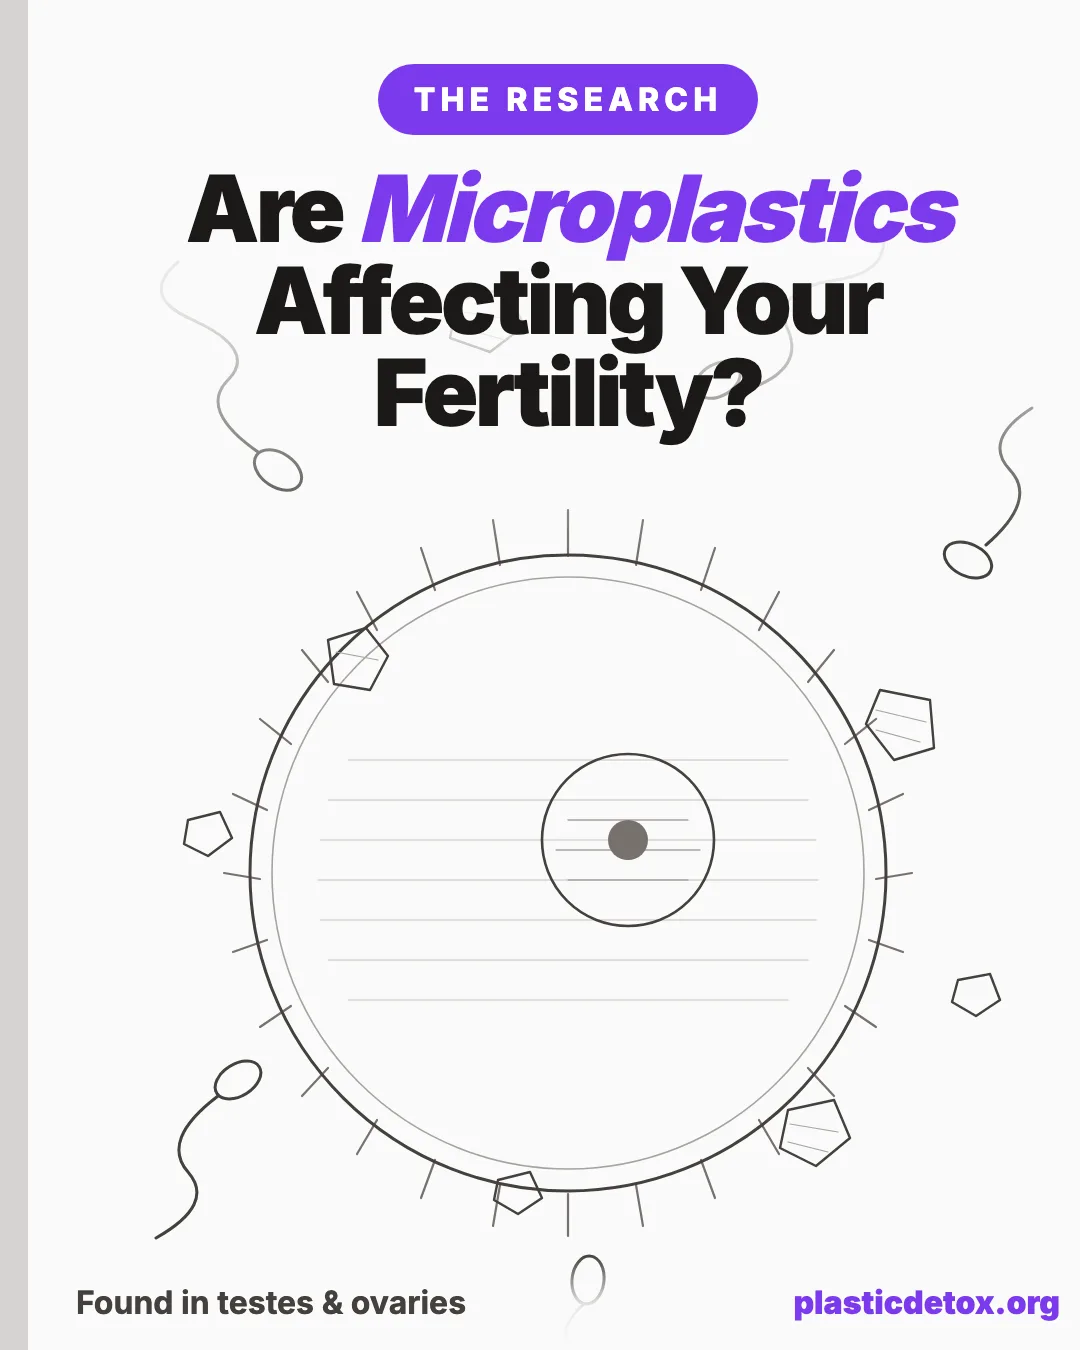
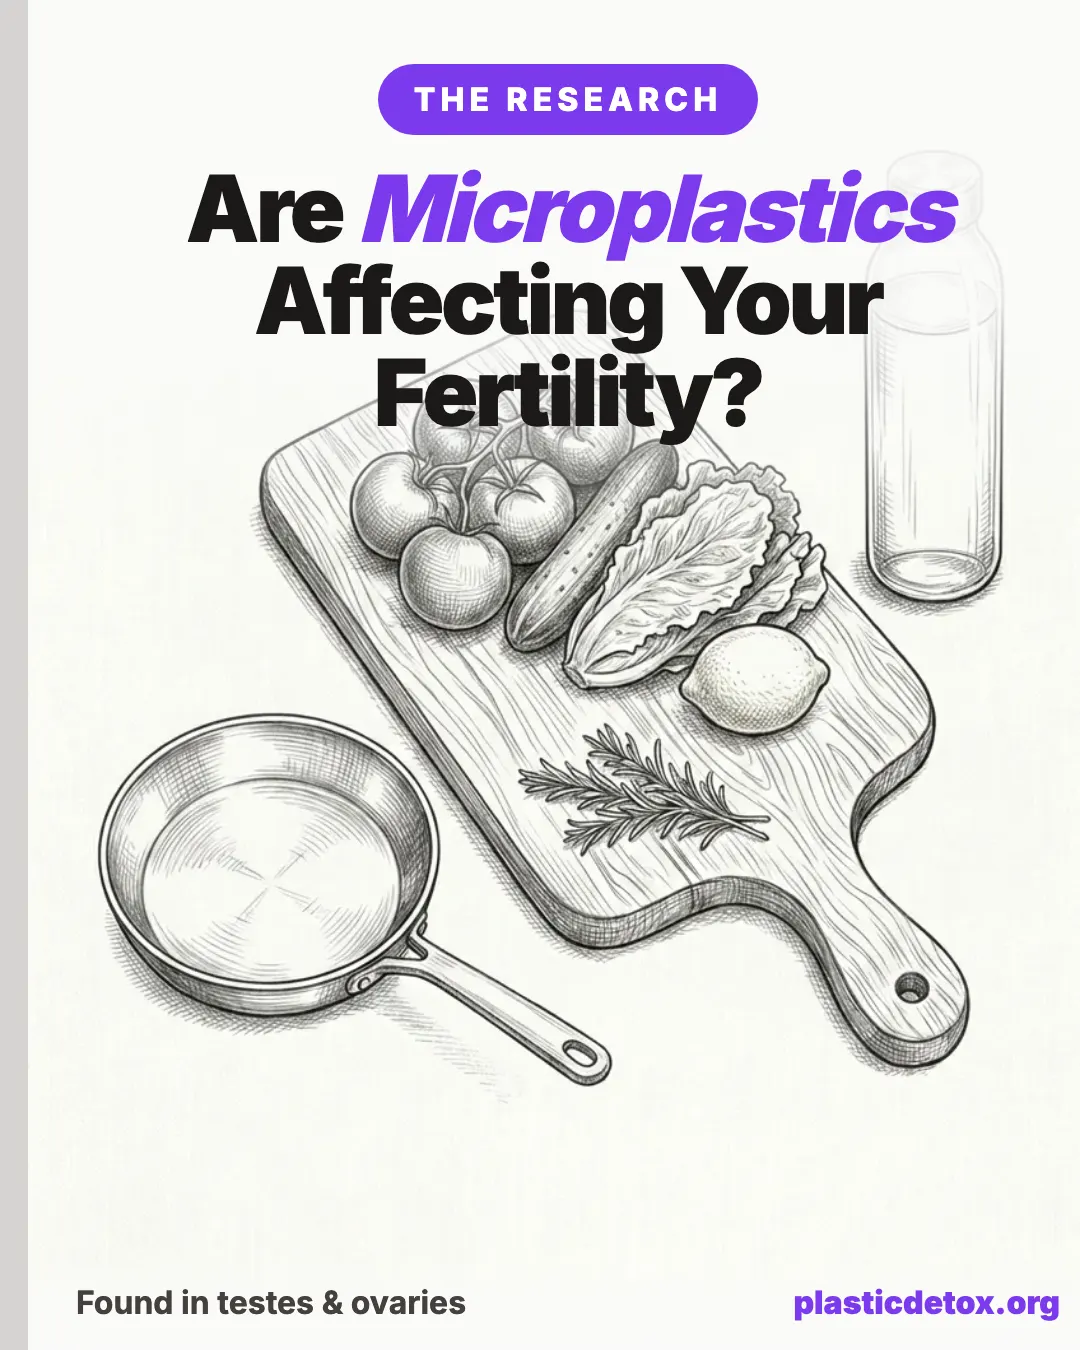
Swap fertility hero and social to the brand pencil illustration
Replace the placeholder SVG hero with the supplied black and white pencil
kitchen illustration in the canonical article-hero pin template. Background
source kept as webp (109KB) and referenced by both templates. Live assets are
SEO sized: hero 105KB, social 67KB. Dropped the large rendered PNG backups in
favor of webp only.

diff --git a/images/microplastics-and-fertility-article-hero.html b/images/microplastics-and-fertility-article-hero.html
@@ -20,11 +20,10 @@
       overflow: hidden;
       background: #fafaf9;
     }
-    .pin > svg.bg {
-      position: absolute;
-      inset: 0;
+    .pin > img {
       width: 100%;
       height: 100%;
+      object-fit: cover;
       display: block;
     }
     .top-overlay {
@@ -77,111 +76,7 @@
 </head>
 <body>
   <div class="pin">
-    <svg class="bg" viewBox="0 0 1080 1350" xmlns="http://www.w3.org/2000/svg">
-      <rect width="1080" height="1350" fill="#fafaf9"/>
-      <g stroke="#57534e" fill="none" stroke-linecap="round" stroke-linejoin="round">
-
-        <!-- ============ THE EGG (ovum) ============ -->
-        <!-- corona radiata: radial strokes -->
-        <g stroke="#78716c" stroke-width="2.2">
-          <!-- generated ring of radial ticks around center 540,800 -->
-          <line x1="540" y1="510" x2="540" y2="556"/>
-          <line x1="615" y1="520" x2="608" y2="565"/>
-          <line x1="687" y1="548" x2="673" y2="590"/>
-          <line x1="751" y1="592" x2="731" y2="630"/>
-          <line x1="806" y1="650" x2="780" y2="682"/>
-          <line x1="848" y1="719" x2="817" y2="744"/>
-          <line x1="875" y1="794" x2="841" y2="810"/>
-          <line x1="884" y1="873" x2="848" y2="879"/>
-          <line x1="875" y1="952" x2="841" y2="940"/>
-          <line x1="848" y1="1027" x2="817" y2="1006"/>
-          <line x1="806" y1="1096" x2="780" y2="1068"/>
-          <line x1="751" y1="1154" x2="731" y2="1120"/>
-          <line x1="687" y1="1198" x2="673" y2="1160"/>
-          <line x1="615" y1="1226" x2="608" y2="1185"/>
-          <line x1="540" y1="1236" x2="540" y2="1194"/>
-          <line x1="465" y1="1226" x2="472" y2="1185"/>
-          <line x1="393" y1="1198" x2="407" y2="1160"/>
-          <line x1="329" y1="1154" x2="349" y2="1120"/>
-          <line x1="274" y1="1096" x2="300" y2="1068"/>
-          <line x1="232" y1="1027" x2="263" y2="1006"/>
-          <line x1="205" y1="952" x2="239" y2="940"/>
-          <line x1="196" y1="873" x2="232" y2="879"/>
-          <line x1="205" y1="794" x2="239" y2="810"/>
-          <line x1="232" y1="719" x2="263" y2="744"/>
-          <line x1="274" y1="650" x2="300" y2="682"/>
-          <line x1="329" y1="592" x2="349" y2="630"/>
-          <line x1="393" y1="548" x2="407" y2="590"/>
-          <line x1="465" y1="520" x2="472" y2="565"/>
-        </g>
-
-        <!-- zona pellucida (outer membrane) -->
-        <circle cx="540" cy="873" r="318" stroke="#44403c" stroke-width="3"/>
-        <circle cx="540" cy="873" r="296" stroke="#a8a29e" stroke-width="1.6"/>
-
-        <!-- cytoplasm hatching -->
-        <g stroke="#d6d3d1" stroke-width="1.4">
-          <line x1="320" y1="760" x2="760" y2="760"/>
-          <line x1="300" y1="800" x2="780" y2="800"/>
-          <line x1="292" y1="840" x2="788" y2="840"/>
-          <line x1="290" y1="880" x2="790" y2="880"/>
-          <line x1="292" y1="920" x2="788" y2="920"/>
-          <line x1="300" y1="960" x2="780" y2="960"/>
-          <line x1="320" y1="1000" x2="760" y2="1000"/>
-        </g>
-
-        <!-- nucleus -->
-        <circle cx="600" cy="840" r="86" stroke="#44403c" stroke-width="2.6"/>
-        <g stroke="#a8a29e" stroke-width="1.4">
-          <line x1="540" y1="820" x2="660" y2="820"/>
-          <line x1="528" y1="850" x2="672" y2="850"/>
-          <line x1="540" y1="880" x2="660" y2="880"/>
-        </g>
-        <circle cx="600" cy="840" r="20" fill="#78716c" stroke="none"/>
-
-        <!-- ============ SPERM ============ -->
-        <g stroke="#44403c" stroke-width="3">
-          <!-- sperm 1, upper left, swimming in -->
-          <ellipse cx="250" cy="470" rx="26" ry="17" transform="rotate(34 250 470)"/>
-          <path d="M 230 452 Q 170 410 200 380 Q 230 350 165 320 Q 110 296 150 262"/>
-          <!-- sperm 2, top center-right -->
-          <ellipse cx="690" cy="380" rx="24" ry="16" transform="rotate(150 690 380)"/>
-          <path d="M 712 392 Q 778 372 760 330 Q 742 290 808 280 Q 862 272 855 232"/>
-          <!-- sperm 3, right -->
-          <ellipse cx="940" cy="560" rx="25" ry="16" transform="rotate(205 940 560)"/>
-          <path d="M 958 545 Q 1010 500 982 470 Q 954 440 1004 408"/>
-          <!-- sperm 4, lower left -->
-          <ellipse cx="210" cy="1080" rx="25" ry="16" transform="rotate(-32 210 1080)"/>
-          <path d="M 190 1096 Q 132 1140 160 1172 Q 188 1204 128 1238"/>
-          <!-- sperm 5, bottom -->
-          <ellipse cx="560" cy="1280" rx="24" ry="16" transform="rotate(96 560 1280)"/>
-          <path d="M 556 1304 Q 520 1336 556 1356"/>
-        </g>
-
-        <!-- ============ PLASTIC FRAGMENTS ============ -->
-        <g stroke="#44403c" stroke-width="2.4">
-          <!-- fragment a -->
-          <polygon points="430,300 478,288 496,326 462,352 422,338"/>
-          <g stroke="#a8a29e" stroke-width="1.2"><line x1="436" y1="312" x2="486" y2="320"/><line x1="432" y1="328" x2="478" y2="340"/></g>
-          <!-- fragment b -->
-          <polygon points="852,690 902,700 906,748 866,760 838,724"/>
-          <g stroke="#a8a29e" stroke-width="1.2"><line x1="848" y1="710" x2="898" y2="722"/><line x1="848" y1="730" x2="892" y2="742"/></g>
-          <!-- fragment c -->
-          <polygon points="300,640 338,628 360,656 342,690 306,684"/>
-          <g stroke="#a8a29e" stroke-width="1.2"><line x1="308" y1="652" x2="350" y2="660"/></g>
-          <!-- fragment d -->
-          <polygon points="760,1110 806,1100 822,1138 788,1166 752,1148"/>
-          <g stroke="#a8a29e" stroke-width="1.2"><line x1="762" y1="1124" x2="810" y2="1132"/><line x1="760" y1="1142" x2="800" y2="1152"/></g>
-          <!-- fragment e small -->
-          <polygon points="160,820 192,812 204,838 180,856 156,844"/>
-          <!-- fragment f small -->
-          <polygon points="930,980 962,974 972,1000 948,1016 924,1002"/>
-          <!-- fragment g small -->
-          <polygon points="470,1180 502,1172 514,1198 490,1214 466,1200"/>
-        </g>
-
-      </g>
-    </svg>
+    <img src="microplastics-and-fertility-bg.webp" alt="Pencil sketch of a low tox kitchen with a wood cutting board of vegetables, a glass bottle, and a stainless steel pan">
     <div class="top-overlay">
       <div class="headline-tag">The Research</div>
       <h1>Are <span class="accent">Microplastics</span><br>Affecting Your<br>Fertility?</h1>

diff --git a/images/microplastics-and-fertility-social.html b/images/microplastics-and-fertility-social.html
@@ -22,20 +22,22 @@
       display: flex;
       align-items: center;
     }
-    .card > svg.bg {
+    .card > img.bg {
       position: absolute;
       top: 50%;
-      right: -70px;
+      right: 0;
       transform: translateY(-50%);
-      width: 620px;
-      height: 620px;
+      width: 560px;
+      height: 760px;
+      object-fit: cover;
+      object-position: center 38%;
       display: block;
     }
     .left {
       position: relative;
       z-index: 2;
       padding: 0 60px;
-      max-width: 760px;
+      max-width: 720px;
     }
     .tag {
       display: inline-block;
@@ -62,84 +64,22 @@
       font-size: 26px;
       font-weight: 600;
       color: #57534e;
-      max-width: 640px;
+      max-width: 600px;
       line-height: 1.3;
     }
     .url { margin-top: 30px; font-size: 26px; font-weight: 900; color: #7c3aed; }
-    /* fade the illustration so text stays readable */
     .fade {
       position: absolute;
       top: 0; bottom: 0; left: 0;
-      width: 760px;
-      background: linear-gradient(to right, #fafaf9 62%, rgba(250,250,249,0) 100%);
+      width: 820px;
+      background: linear-gradient(to right, #fafaf9 58%, rgba(250,250,249,0) 100%);
       z-index: 1;
     }
   </style>
 </head>
 <body>
   <div class="card">
-    <svg class="bg" viewBox="0 0 1080 1080" xmlns="http://www.w3.org/2000/svg">
-      <g stroke="#57534e" fill="none" stroke-linecap="round" stroke-linejoin="round" transform="translate(0,-80)">
-        <!-- corona radiata -->
-        <g stroke="#78716c" stroke-width="2.6">
-          <line x1="540" y1="510" x2="540" y2="556"/>
-          <line x1="615" y1="520" x2="608" y2="565"/>
-          <line x1="687" y1="548" x2="673" y2="590"/>
-          <line x1="751" y1="592" x2="731" y2="630"/>
-          <line x1="806" y1="650" x2="780" y2="682"/>
-          <line x1="848" y1="719" x2="817" y2="744"/>
-          <line x1="875" y1="794" x2="841" y2="810"/>
-          <line x1="884" y1="873" x2="848" y2="879"/>
-          <line x1="875" y1="952" x2="841" y2="940"/>
-          <line x1="848" y1="1027" x2="817" y2="1006"/>
-          <line x1="806" y1="1096" x2="780" y2="1068"/>
-          <line x1="751" y1="1154" x2="731" y2="1120"/>
-          <line x1="687" y1="1198" x2="673" y2="1160"/>
-          <line x1="615" y1="1226" x2="608" y2="1185"/>
-          <line x1="540" y1="1236" x2="540" y2="1194"/>
-          <line x1="465" y1="1226" x2="472" y2="1185"/>
-          <line x1="393" y1="1198" x2="407" y2="1160"/>
-          <line x1="329" y1="1154" x2="349" y2="1120"/>
-          <line x1="274" y1="1096" x2="300" y2="1068"/>
-          <line x1="232" y1="1027" x2="263" y2="1006"/>
-          <line x1="205" y1="952" x2="239" y2="940"/>
-          <line x1="196" y1="873" x2="232" y2="879"/>
-          <line x1="205" y1="794" x2="239" y2="810"/>
-          <line x1="232" y1="719" x2="263" y2="744"/>
-          <line x1="274" y1="650" x2="300" y2="682"/>
-          <line x1="329" y1="592" x2="349" y2="630"/>
-          <line x1="393" y1="548" x2="407" y2="590"/>
-          <line x1="465" y1="520" x2="472" y2="565"/>
-        </g>
-        <circle cx="540" cy="873" r="318" stroke="#44403c" stroke-width="3.4"/>
-        <circle cx="540" cy="873" r="296" stroke="#a8a29e" stroke-width="1.8"/>
-        <g stroke="#d6d3d1" stroke-width="1.6">
-          <line x1="320" y1="790" x2="760" y2="790"/>
-          <line x1="300" y1="840" x2="780" y2="840"/>
-          <line x1="292" y1="890" x2="788" y2="890"/>
-          <line x1="300" y1="940" x2="780" y2="940"/>
-          <line x1="320" y1="990" x2="760" y2="990"/>
-        </g>
-        <circle cx="600" cy="840" r="86" stroke="#44403c" stroke-width="2.8"/>
-        <circle cx="600" cy="840" r="20" fill="#78716c" stroke="none"/>
-        <!-- sperm -->
-        <g stroke="#44403c" stroke-width="3.2">
-          <ellipse cx="250" cy="470" rx="26" ry="17" transform="rotate(34 250 470)"/>
-          <path d="M 230 452 Q 170 410 200 380 Q 230 350 165 320"/>
-          <ellipse cx="690" cy="380" rx="24" ry="16" transform="rotate(150 690 380)"/>
-          <path d="M 712 392 Q 778 372 760 330 Q 742 290 808 280"/>
-          <ellipse cx="210" cy="1080" rx="25" ry="16" transform="rotate(-32 210 1080)"/>
-          <path d="M 190 1096 Q 132 1140 160 1172 Q 188 1204 128 1238"/>
-        </g>
-        <!-- plastic fragments -->
-        <g stroke="#44403c" stroke-width="2.6">
-          <polygon points="430,300 478,288 496,326 462,352 422,338"/>
-          <polygon points="852,690 902,700 906,748 866,760 838,724"/>
-          <polygon points="760,1110 806,1100 822,1138 788,1166 752,1148"/>
-          <polygon points="160,820 192,812 204,838 180,856 156,844"/>
-        </g>
-      </g>
-    </svg>
+    <img class="bg" src="microplastics-and-fertility-bg.webp" alt="Pencil sketch of a low tox kitchen with a wood cutting board of vegetables, a glass bottle, and a stainless steel pan">
     <div class="fade"></div>
     <div class="left">
       <div class="tag">The Research</div>
